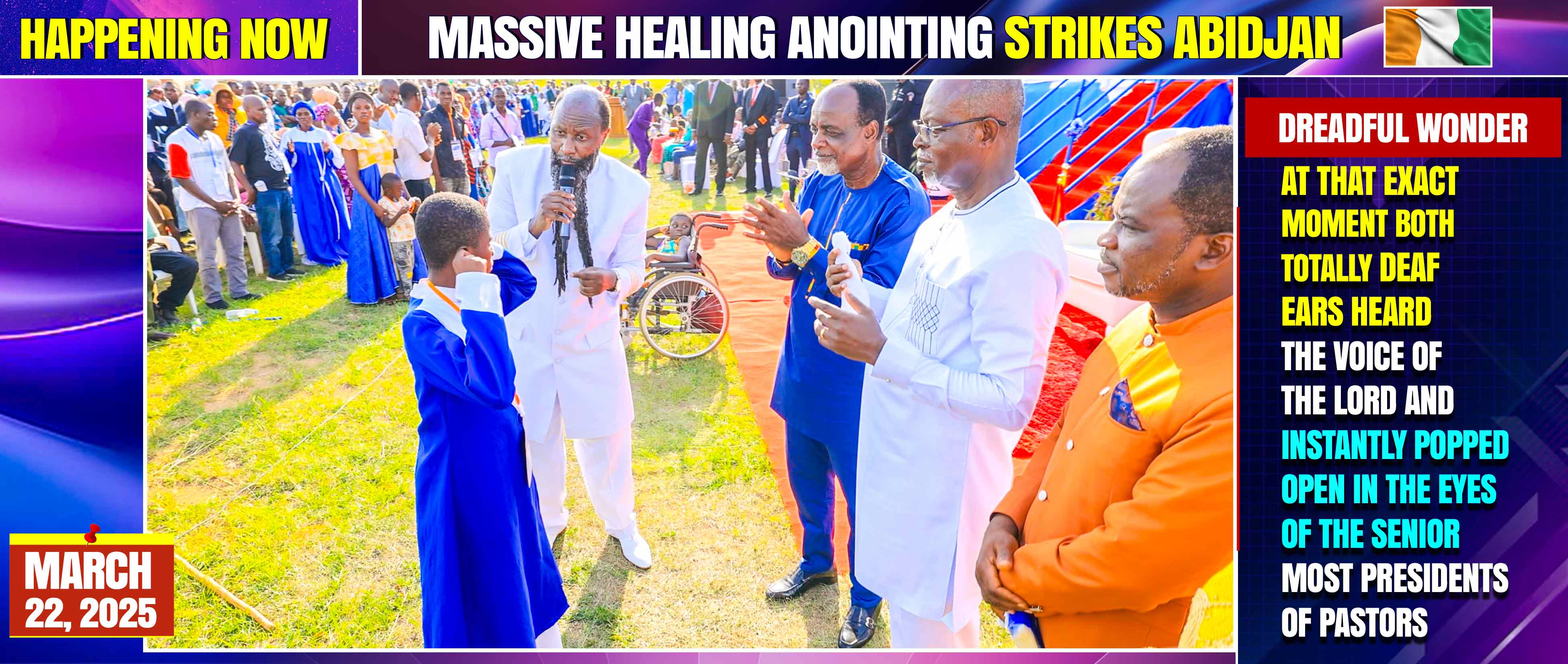
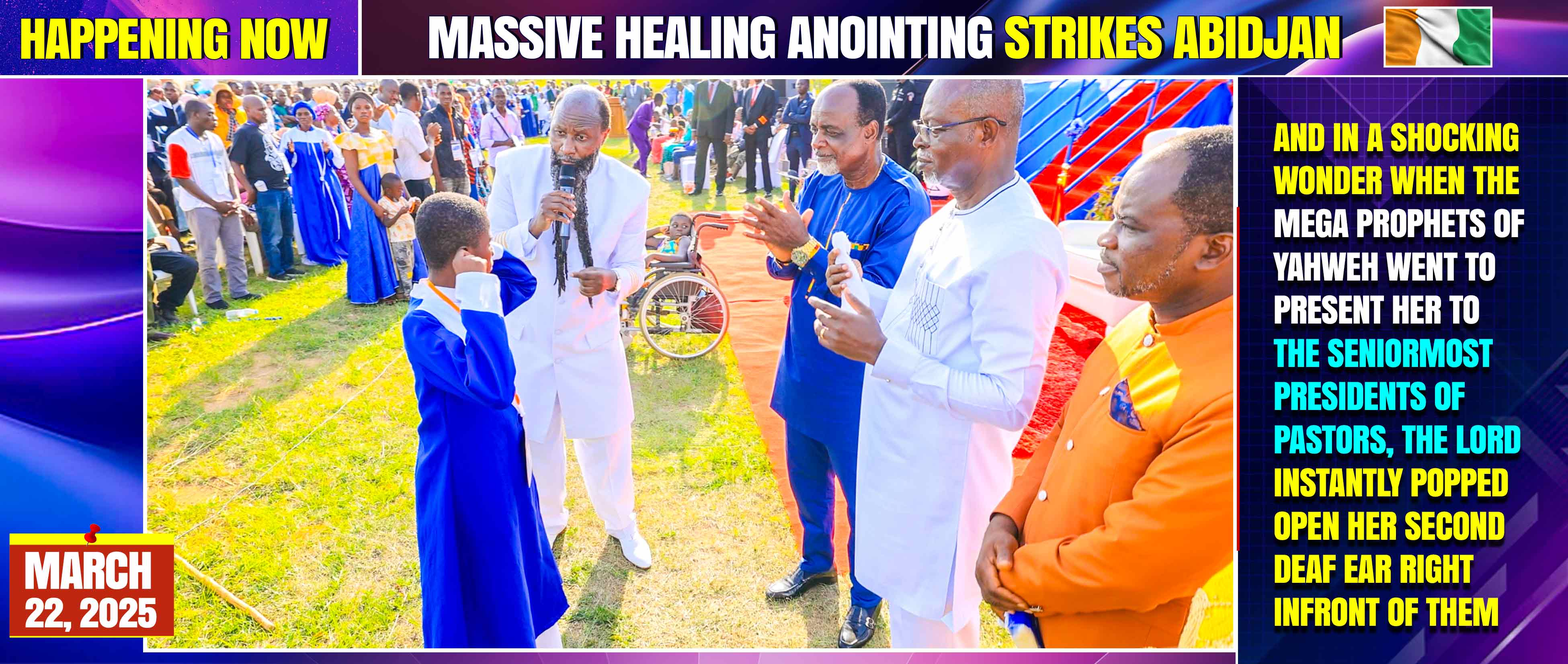
new slides

Changed region(s): [[0.7754, 0.1235, 1.0, 0.9879]]

diff --git a/index.html b/index.html
@@ -16,27 +16,32 @@
         <img class="slideshow" src="Slide-11.jpg" alt="Slideshow Image">
         <img class="slideshow" src="Slide-12.jpg" alt="Slideshow Image">
         <img class="slideshow" src="Slide-13.jpg" alt="Slideshow Image">
-        <img class="slideshow" src="Slide-14.jpg" alt="Slideshow Image">
+        <img class="slideshow" src="Slide-14.jpg" alt="Slideshow Image"> 
         <img class="slideshow" src="Slide-15.jpg" alt="Slideshow Image">
         <img class="slideshow" src="Slide-15a.jpg" alt="Slideshow Image">
         <img class="slideshow" src="Slide-15b.jpg" alt="Slideshow Image">
         <!-- Totally Blind eyes instantly popped open  -->
-        <img class="slideshow" src="Slide-15c.jpg" alt="Slideshow Image">
-        <img class="slideshow" src="Slide-15d.jpg" alt="Slideshow Image">
+
         <img class="slideshow" src="Slide-15e.jpg" alt="Slideshow Image">
         <img class="slideshow" src="Slide-15f.jpg" alt="Slideshow Image">
         <img class="slideshow" src="Slide-15g.jpg" alt="Slideshow Image">
+        <img class="slideshow" src="Slide-15y.jpg" alt="Slideshow Image">
+        <img class="slideshow" src="Slide-15z.jpg" alt="Slideshow Image">
+        <img class="slideshow" src="Slide-15c.jpg" alt="Slideshow Image">
+        <img class="slideshow" src="Slide-15d.jpg" alt="Slideshow Image">
         <!-- Totally Deaf ears instantly popped open  -->
         <img class="slideshow" src="Slide-15.05.jpg" alt="Slideshow Image">
-        <img class="slideshow" src="Slide-15.01.jpg" alt="Slideshow Image">
+        <img class="slideshow" src="Slide-15.06.jpg" alt="Slideshow Image">
         <img class="slideshow" src="Slide-15.02.jpg" alt="Slideshow Image">
+        <img class="slideshow" src="Slide-15.01.jpg" alt="Slideshow Image">
         <img class="slideshow" src="Slide-15.03.jpg" alt="Slideshow Image">
         <img class="slideshow" src="Slide-15.04.jpg" alt="Slideshow Image">
-
         <img class="slideshow" src="Slide-15h.jpg" alt="Slideshow Image">
         <img class="slideshow" src="Slide-15i.jpg" alt="Slideshow Image">
         <img class="slideshow" src="Slide-15k.jpg" alt="Slideshow Image">
         <img class="slideshow" src="Slide-15l.jpg" alt="Slideshow Image">
+        <img class="slideshow" src="Slide-15m.jpg" alt="Slideshow Image">
+        <img class="slideshow" src="Slide-15n.jpg" alt="Slideshow Image">
         <!-- Severe paralysis instantly healed -->
         <img class="slideshow" src="Slide-16.jpg" alt="Slideshow Image">
         <img class="slideshow" src="Slide-16a.jpg" alt="Slideshow Image">
